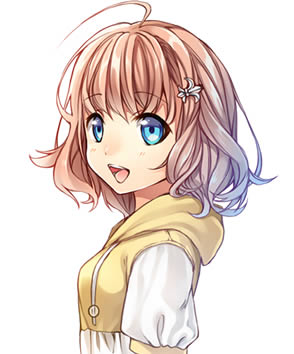
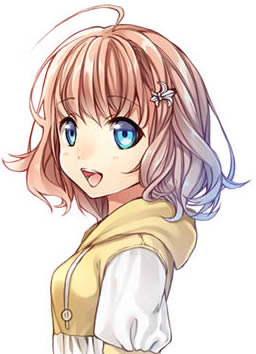
design tweak

diff --git a/source/stylesheets/portal.css.less b/source/stylesheets/portal.css.less
@@ -77,9 +77,9 @@ body{
       }
 
       #yurie{
-        background: #ffffff url(/images/portal/yurie.jpg) no-repeat top right scroll;
-        background-size: 148px 177px;
-        padding-right: 140px;
+        background: #ffffff url(/images/portal/yurie.jpg) no-repeat right 4px scroll;
+        background-size: 128px 177px;
+        padding-right: 128px;
       }
 
       #onepad{
